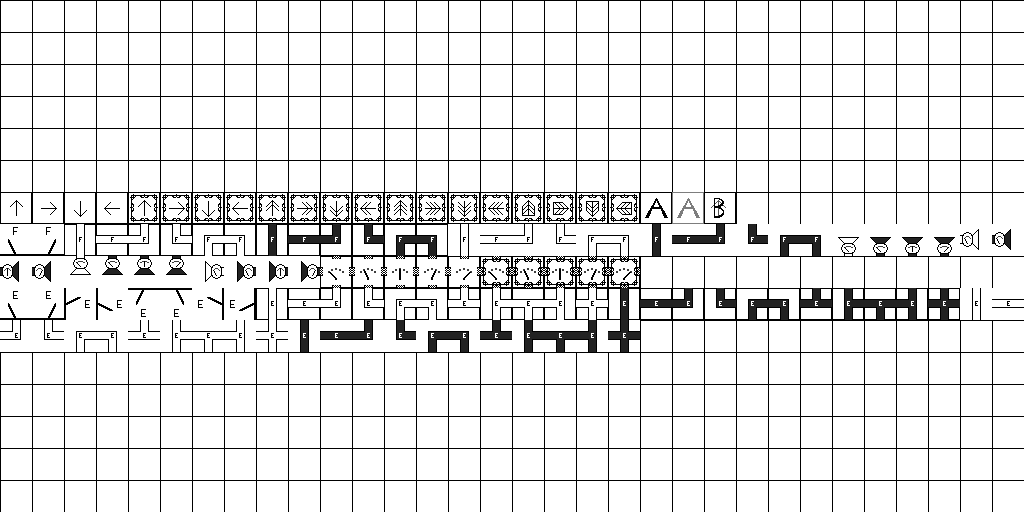
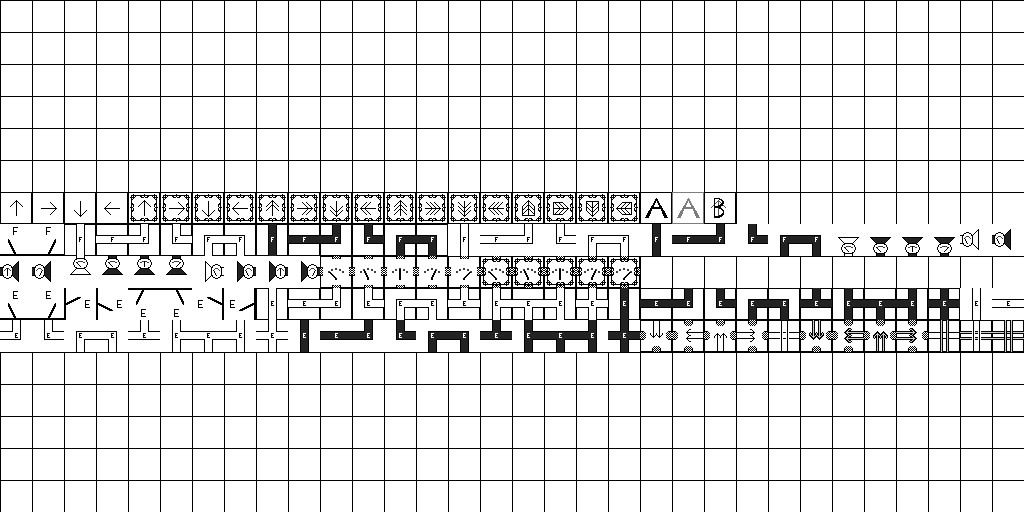
Added MomentumAbsorber and fixed a graphical bug regarding tiles

Changed region(s): [[0.625, 0.625, 1.0, 0.6875]]

diff --git a/src/ship/world/collisiongrid/vehicle/tile/power/MomentumAbsorber.java b/src/ship/world/collisiongrid/vehicle/tile/power/MomentumAbsorber.java
@@ -1,0 +1,124 @@
+package ship.world.collisiongrid.vehicle.tile.power;
+
+import org.newdawn.slick.GameContainer;
+
+import ship.world.collisiongrid.vehicle.tile.Tile;
+
+public class MomentumAbsorber extends Tile {
+    public static final int BASETILE = AirPowerTransport.NEXTTILE;
+    public static final int NEXTTILE = BASETILE + 12;
+
+    public static final float ABSORB_AMOUNT = 20 * 5;
+
+    private int direction;
+
+    private boolean[] poweredFrom;
+    private int powers;
+
+    private boolean renderPowered;
+    private boolean renderPowered2;
+
+    /**
+     * Creates a new MomentumAbsorber. It will absorb up to a maximum value of
+     * momentum, assuming it is correctly assembled by the players. The direction
+     * can, besides the normal directions, be 4, which means that it is the
+     * centre point of a completed MomentumAbsorber.
+     * @param x
+     * @param y
+     * @param direction
+     */
+    public MomentumAbsorber(int x, int y, int direction) {
+        super(x, y, BASETILE + direction, STDMASS, true, true);
+
+        this.direction = direction;
+
+        poweredFrom = new boolean[4];
+        powers      = 0;
+
+        renderPowered  = false;
+        renderPowered2 = false;
+    }
+
+    public void updateEarly(GameContainer gc, int diff) {
+        powers = 0;
+
+        if (direction == 4) {
+            if (poweredFrom[UP] && poweredFrom[DOWN]) {
+                renderPowered = true;
+
+                float momentum = parent.getAbsYSpeed() * parent.getMass();
+
+                if (momentum < 0)
+                    momentum = Math.max(momentum, -ABSORB_AMOUNT);
+
+                else if (momentum > 0)
+                    momentum = Math.min(momentum, ABSORB_AMOUNT);
+
+                parent.pushY(-momentum * parent.world().gravity() * parent.world().actionsPerTick() * parent.world().view().diff());
+            }
+
+            if (poweredFrom[LEFT] && poweredFrom[RIGHT]) {
+                renderPowered2 = true;
+
+                float momentum = parent.getAbsXSpeed() * parent.getMass();
+
+                if (momentum < 0)
+                    momentum = Math.max(momentum, -ABSORB_AMOUNT);
+
+                else if (momentum > 0)
+                    momentum = Math.min(momentum, ABSORB_AMOUNT);
+
+                parent.pushX(-momentum * parent.world().gravity() * parent.world().actionsPerTick() * parent.world().view().diff());
+
+            }
+
+        }
+
+        for (int i = 0; i < 4; i++)
+            poweredFrom[i] = false;
+    }
+
+    public boolean powerFrom(int direction) {
+        if (this.direction != 4 && direction != this.direction && !poweredFrom[direction]) {
+            poweredFrom[direction] = true;
+            powers++;
+
+            if (powers == 3) {
+                Tile out = getFrom(this.direction);
+                renderPowered = true;
+                if (out instanceof MomentumAbsorber)
+                    ((MomentumAbsorber) out).momentumAbsorberCompleteFrom((this.direction + 2) % 4);
+            }
+
+            return true;
+        }
+
+        return false;
+    }
+
+    protected void momentumAbsorberCompleteFrom(int direction) {
+        if (this.direction == 4)
+            poweredFrom[direction] = true;
+    }
+
+    public int tile() {
+        if (direction == 4 && renderPowered2) {
+            renderPowered2 = false;
+
+            if (renderPowered) {
+                renderPowered = false;
+                return super.tile() + 7;
+            }
+
+            return super.tile() + 6;
+        }
+
+        if (renderPowered) {
+            renderPowered = false;
+            return super.tile() + 5;
+        }
+
+        return super.tile();
+    }
+
+}

diff --git a/src/ship/world/collisiongrid/CollisionGrid.java b/src/ship/world/collisiongrid/CollisionGrid.java
@@ -397,11 +397,13 @@ public abstract class CollisionGrid implements Position, Renderable, Updatable, 
 
         for (int i = xMin; i <= xMax; i++)
             for (int j = yMin; j <= yMax; j++)
-                if (renderAt(i, j))
+                if (renderAt(i, j)) {
+                    int tile = tileAt(i, j);
                     tileset.getSpriteSheet().renderInUse(ix() + i*TW,
                                                          iy() + j*TH,
-                                                         tileAt(i, j)%tileset.getSpriteSheet().getHorizontalCount(),
-                                                         tileAt(i, j)/tileset.getSpriteSheet().getHorizontalCount());
+                                                         tile%tileset.getSpriteSheet().getHorizontalCount(),
+                                                         tile/tileset.getSpriteSheet().getHorizontalCount());
+                }
 
     }
 
@@ -483,11 +485,11 @@ public abstract class CollisionGrid implements Position, Renderable, Updatable, 
 
     @Override
     public void update(GameContainer gc, int diff) {
+        ySpeed += world.actionsPerTick() * diff * world.gravity();
+
         for (int i = leftX(); i <= rightX(); i++)
             for (int j = topY(); j <= botY(); j++)
                 updateAt(i, j, gc, diff);
-
-        ySpeed += world.actionsPerTick() * diff * world.gravity();
 
         if (world.updatePos() && world.view().playerId() == 0) {
             c("x", x);

diff --git a/src/ship/ui/inventory/Inventory.java b/src/ship/ui/inventory/Inventory.java
@@ -18,13 +18,14 @@ import ship.control.Keys;
 import ship.ui.inventory.tilecreator.AirFuelTransportCreator;
 import ship.ui.inventory.tilecreator.AirPowerTransportCreator;
 import ship.ui.inventory.tilecreator.BalloonCreator;
-import ship.ui.inventory.tilecreator.TileCreator;
 import ship.ui.inventory.tilecreator.FuelTankCreator;
 import ship.ui.inventory.tilecreator.FuelTapCreator;
 import ship.ui.inventory.tilecreator.FuelTransportCreator;
+import ship.ui.inventory.tilecreator.MomentumAbsorberCreator;
 import ship.ui.inventory.tilecreator.PowerSwitchCreator;
 import ship.ui.inventory.tilecreator.PowerTransportCreator;
 import ship.ui.inventory.tilecreator.ThrusterCreator;
+import ship.ui.inventory.tilecreator.TileCreator;
 import ship.ui.inventory.tilecreator.ToggleBlockCreator;
 import ship.world.Position;
 import dataverse.datanode.ChangeListener;
@@ -89,6 +90,7 @@ public class Inventory implements Renderable, Updatable, ChangeListener, Positio
         blockCreators.add(new          FuelTankCreator());
         blockCreators.add(new       ToggleBlockCreator());
         blockCreators.add(new           BalloonCreator());
+        blockCreators.add(new  MomentumAbsorberCreator());
     }
 
     /**

diff --git a/src/ship/ui/inventory/tilecreator/MomentumAbsorberCreator.java b/src/ship/ui/inventory/tilecreator/MomentumAbsorberCreator.java
@@ -1,0 +1,32 @@
+package ship.ui.inventory.tilecreator;
+
+import ship.ui.inventory.Tag;
+import ship.ui.inventory.Tags;
+import ship.world.collisiongrid.vehicle.tile.Tile;
+import ship.world.collisiongrid.vehicle.tile.power.MomentumAbsorber;
+
+public class MomentumAbsorberCreator extends TileCreator {
+    public static final String NAME     = "Momentum Absorber";
+    public static final int    BASETILE = MomentumAbsorber.BASETILE + 4;
+    public static final Tag[]  TAGS     = {Tags.COLLIDING, Tags.POWERDRIVEN, Tags.POWERRELATED};
+
+    public MomentumAbsorberCreator() {
+        super(NAME, BASETILE, TAGS);
+    }
+
+    @Override
+    public Tile create(int sub, int x, int y) {
+        return new MomentumAbsorber(x, y, sub);
+    }
+
+    @Override
+    public int numSubs() {
+        return 5;
+    }
+
+    @Override
+    public int subTile(int sub) {
+        return getIcon() - 4 + sub;
+    }
+
+}
